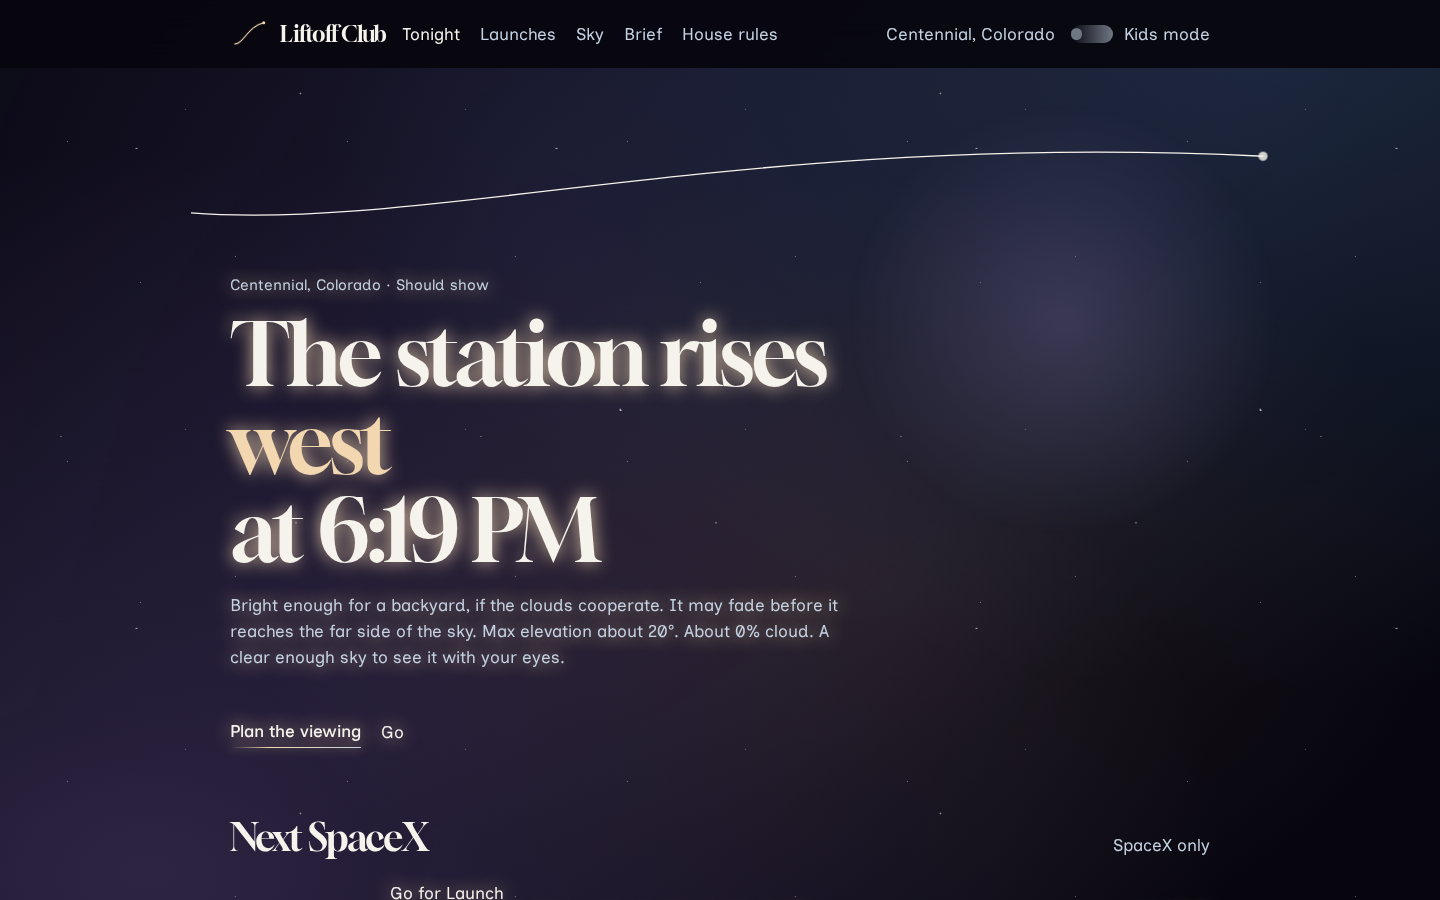
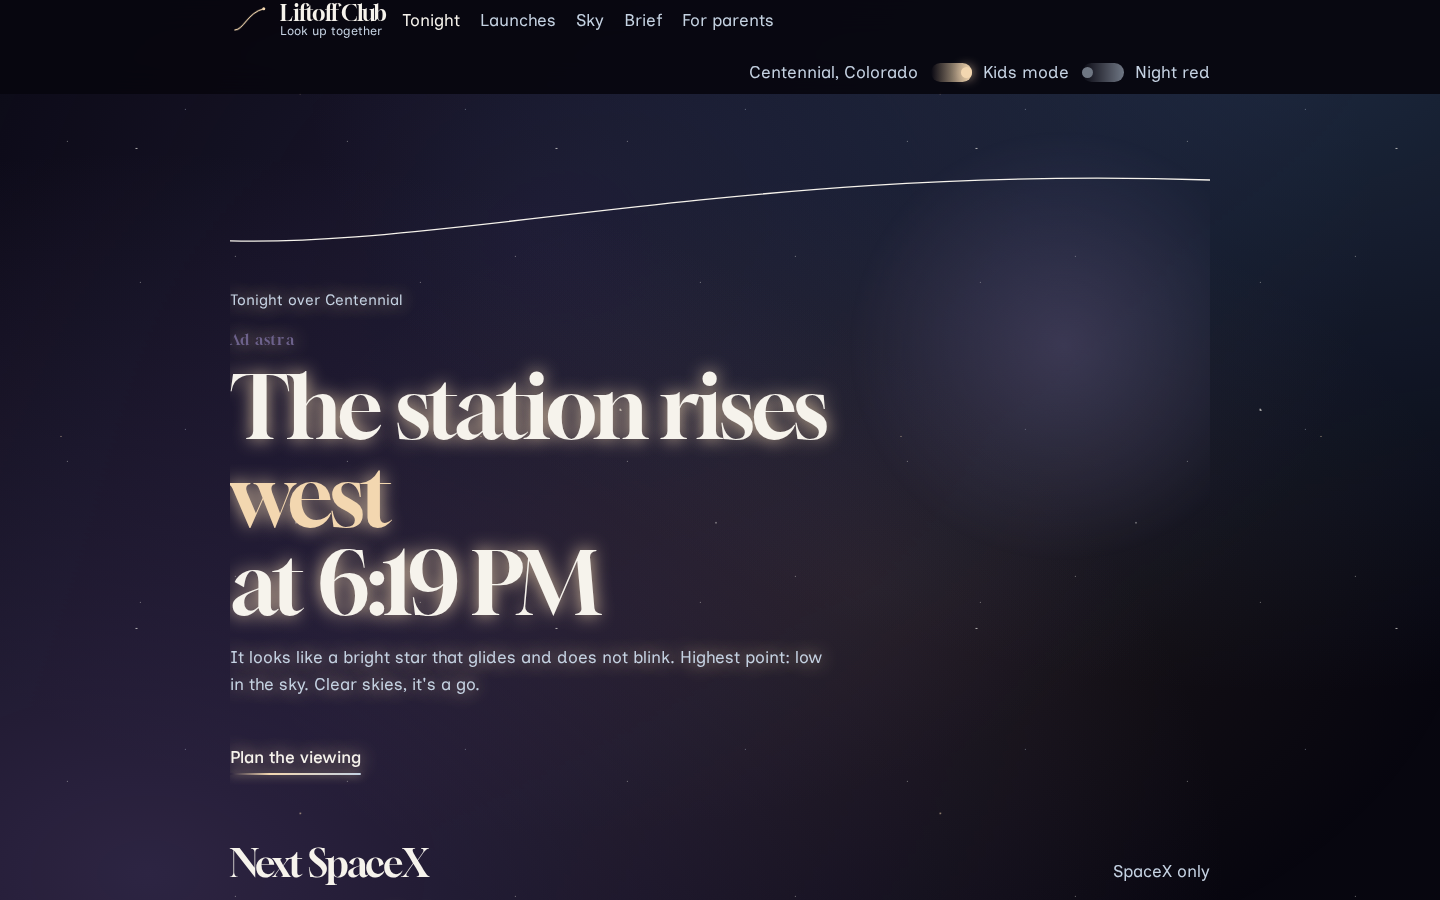
Keep the tagline clear of the nav and stop the hero from scrolling sideways.
Ad astra sits under tonight’s town line. The phone tab bar stays solid, and the new screens show the warmer home page in daylight colors and in night red.

diff --git a/app/globals.css b/app/globals.css
@@ -132,7 +132,13 @@ a:hover { color: var(--core); }
 }
 .brand-words { display: flex; flex-direction: column; min-width: 0; }
 .tagline { color: var(--cold); font-size: 0.78rem; line-height: 1.2; }
-.flourish { margin-left: 0.45rem; font-family: var(--font-display); color: var(--nebula); letter-spacing: 0.04em; }
+.flourish {
+  margin: 0.15rem 0 0.7rem;
+  font-family: var(--font-display);
+  color: var(--nebula);
+  letter-spacing: 0.08em;
+  font-size: 0.95rem;
+}
 .brand {
   display: flex;
   align-items: center;
@@ -163,7 +169,7 @@ a:hover { color: var(--core); }
   right: 0;
   bottom: 0;
   z-index: 20;
-  background: rgba(7, 6, 15, 0.92);
+  background: rgba(7, 6, 15, 0.97);
   backdrop-filter: blur(16px);
   padding: 0.35rem 0.4rem calc(0.45rem + env(safe-area-inset-bottom));
 }
@@ -327,7 +333,7 @@ dialog.term-card .kicker { font-size: 0.95rem; margin: 0; }
 .light-strong .trail-head, .trail.light-strong .trail-head { animation: pulse 2.8s ease-in-out infinite; }
 @keyframes pulse { 50% { opacity: 0.45; } }
 
-.tonight { position: relative; }
+.tonight { position: relative; overflow: hidden; }
 
 .stamp, .pill {
   display: inline;
@@ -568,6 +574,8 @@ html[data-night="red"] {
   --line: rgba(255, 160, 150, 0.32);
 }
 html[data-night="red"] body { background: var(--void); }
+html[data-night="red"] .tabbar,
+html[data-night="red"] .topbar { background: rgba(18, 3, 3, 0.97); }
 html[data-night="red"] .galaxy { filter: sepia(1) saturate(3) hue-rotate(-15deg) brightness(0.42); }
 html[data-night="red"] .light-strong { text-shadow: 0 0 12px rgba(255, 120, 110, 0.45); }
 

diff --git a/components/header.tsx b/components/header.tsx
@@ -28,9 +28,7 @@ export function Header() {
             <Logo />
             <span className="brand-words">
               <Wordmark />
-              <span className="tagline">
-                Look up together <span className="flourish">Ad astra</span>
-              </span>
+              <span className="tagline">Look up together</span>
             </span>
           </Link>
           <nav className="top-nav" aria-label="Primary">

diff --git a/components/tonight.tsx b/components/tonight.tsx
@@ -73,6 +73,7 @@ export function Tonight() {
     <section className={`tonight wrap light-${glow}`}>
       <Trail glow={glow} span="hero" />
       <p className="kicker">Tonight over {town}</p>
+      <p className="flourish">Ad astra</p>
       <h1>
         {who}
         <span className="dir">{direction}</span>
